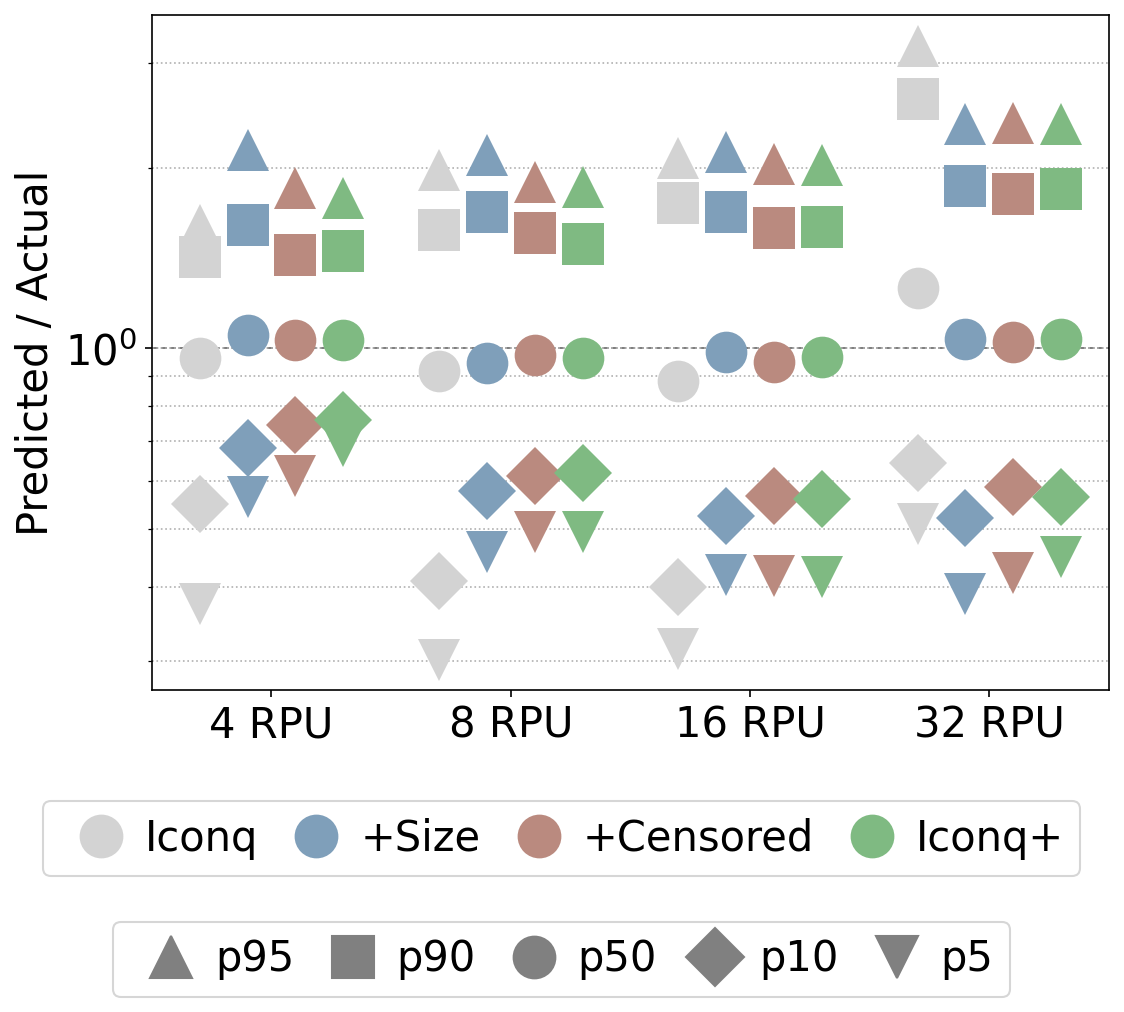
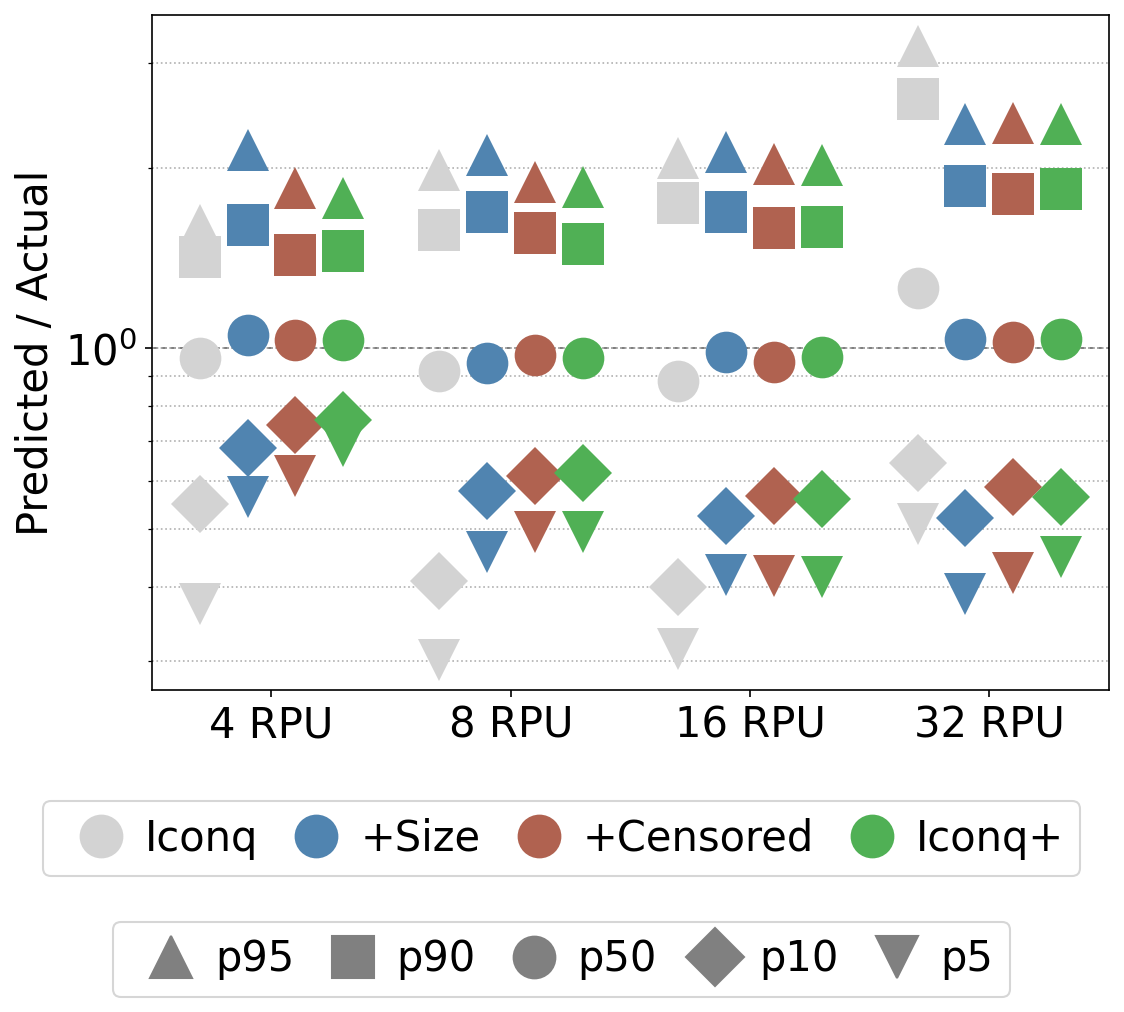
Replot model comparison plots with high-contrast colors

diff --git a/tools/compare_iconq_models.py b/tools/compare_iconq_models.py
@@ -56,6 +56,7 @@ from __future__ import annotations
 
 import argparse
 import sys
+from pathlib import Path
 
 import matplotlib.pyplot as plt
 import pandas as pd
@@ -65,9 +66,9 @@ from autoslo.config.component_configs import WorkloadConfig
 from autoslo.models.iconq_model import DataSplit, IconqModel
 from autoslo.visualizations.colors import Palette
 from autoslo.visualizations.iconq_model_comparison import (
-    ModelEntry,
     _DEFAULT_OUTPUT_DIR,
     _MIN_RPU_SAMPLES_DEFAULT,
+    ModelEntry,
     plot_factor_error_by_rpu,
     plot_factor_error_vs_concurrency,
     plot_inference_time_by_arrival,
@@ -118,7 +119,7 @@ def _load_manifest(
     path: str,
 ) -> tuple[
     list[ModelEntry],
-    str,
+    Path,
     int,
     bool,
     bool,
@@ -161,9 +162,13 @@ def _load_manifest(
                 file=sys.stderr,
             )
             sys.exit(1)
-        models.append(ModelEntry(model_id=model_id, label=label, annotate=annotate, color=color))
+        models.append(
+            ModelEntry(
+                model_id=model_id, label=label, annotate=annotate, color=color
+            )
+        )
 
-    output_dir = str(raw.get("output_dir", _DEFAULT_OUTPUT_DIR))
+    output_dir = Path(raw.get("output_dir", _DEFAULT_OUTPUT_DIR))
     min_rpu_samples = int(raw.get("min_rpu_samples", _MIN_RPU_SAMPLES_DEFAULT))
     highlight_best = bool(raw.get("highlight_best", True))
     annotate_best = bool(raw.get("annotate_best", True))
@@ -176,7 +181,9 @@ def _load_manifest(
     raw_max = raw.get("max_arrivals")
     max_arrivals: int | None = int(raw_max) if raw_max is not None else None
     raw_ref = raw.get("reference_split_model_id")
-    reference_split_model_id: str | None = str(raw_ref) if raw_ref is not None else None
+    reference_split_model_id: str | None = (
+        str(raw_ref) if raw_ref is not None else None
+    )
 
     return (
         models,
@@ -210,7 +217,7 @@ def main() -> None:
 
     # CLI flags override manifest values when provided.
     if args.output_dir is not None:
-        output_dir = args.output_dir
+        output_dir = Path(args.output_dir)
     if args.min_rpu_samples is not None:
         min_rpu_samples = args.min_rpu_samples
 
@@ -226,8 +233,8 @@ def main() -> None:
     all_split_dfs = {}
     for m in models:
         print(f"Loading {m.model_id} ...")
-        all_split_dfs[m.model_id] = IconqModel.optimized_load_final_dfs_per_split(
-            m.model_id
+        all_split_dfs[m.model_id] = (
+            IconqModel.optimized_load_final_dfs_per_split(m.model_id)
         )
 
     # If a reference split model is specified, reassign every model's rows to
@@ -367,7 +374,7 @@ def main() -> None:
             rpu=inference_rpu,
             output_dir=output_dir,
             max_arrivals=max_arrivals,
-            show_title=show_titles
+            show_title=show_titles,
         )
         print(f"  saved: {path4}")
         if args.show:

diff --git a/src/autoslo/visualizations/iconq_model_comparison.py b/src/autoslo/visualizations/iconq_model_comparison.py
@@ -912,7 +912,7 @@ def plot_inference_time_by_arrival(
     arrival_indices = list(range(1, n_arrivals + 1))
 
     output_dir.mkdir(parents=True, exist_ok=True)
-    csv_path = (
+    csv_path = Path(
         output_dir / f"inference_timing_{workload.workload_config.id()}.csv",
     )
 
